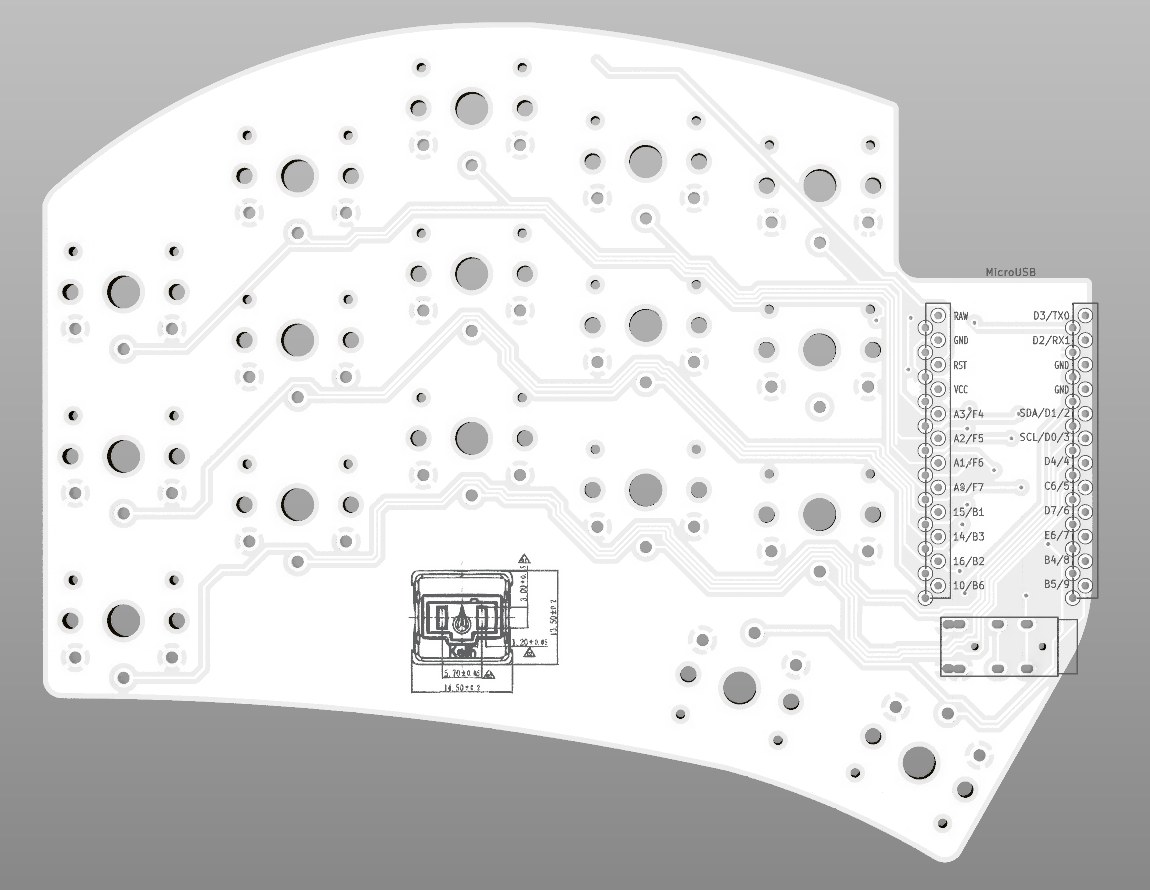
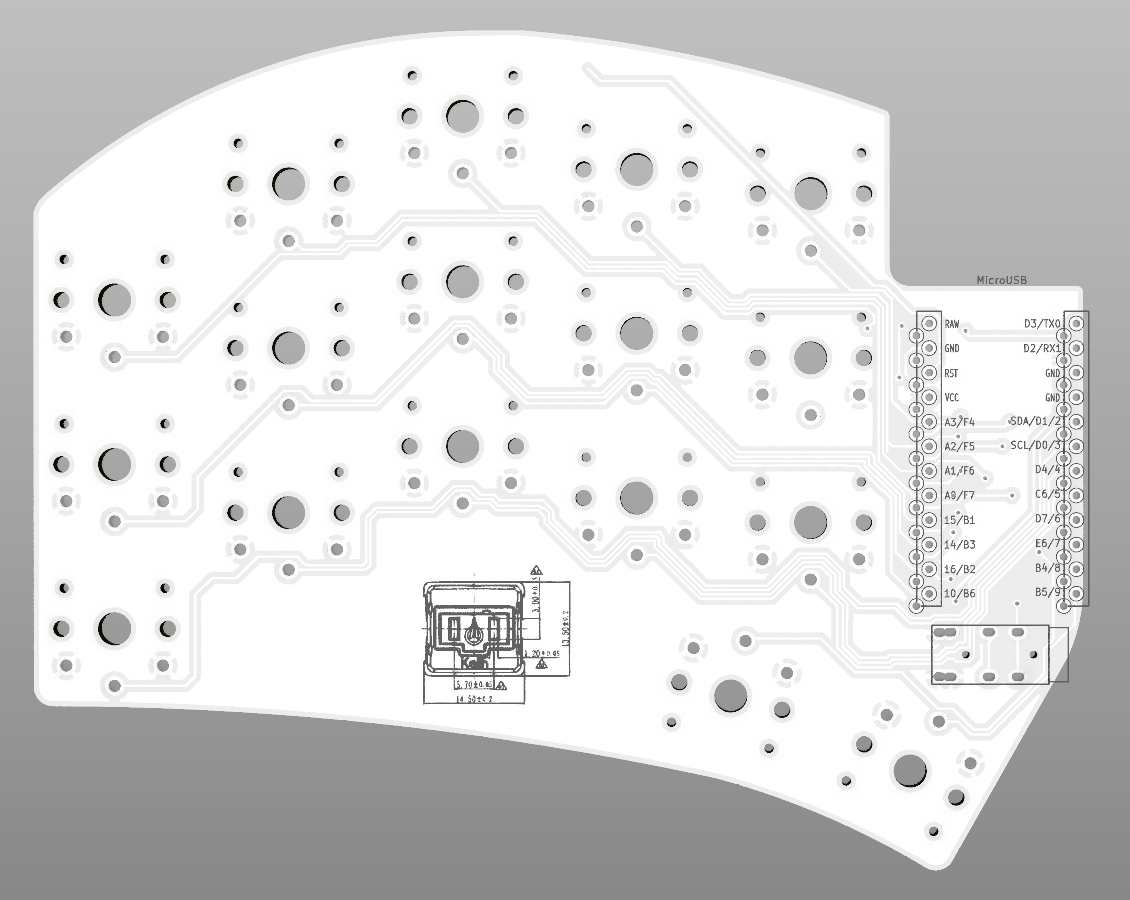
Regenerate half-swept images

diff --git a/README.md b/README.md
@@ -8,3 +8,7 @@ Simplified Ferris [Sweepv2](https://github.com/davidphilipbarr/Sweep/tree/main/S
 * Removed reset switch on half-swept
 * Corrected silkscreen text alignment
 * Added choc switch silkscreen from Pierre's [Ferris v0.1](https://github.com/pierrechevalier83/ferris/tree/main/0.1)
+
+
+![swept-left](half-swept_custom_left.png)
+![swept-right](half-swept_custom_right.png)
